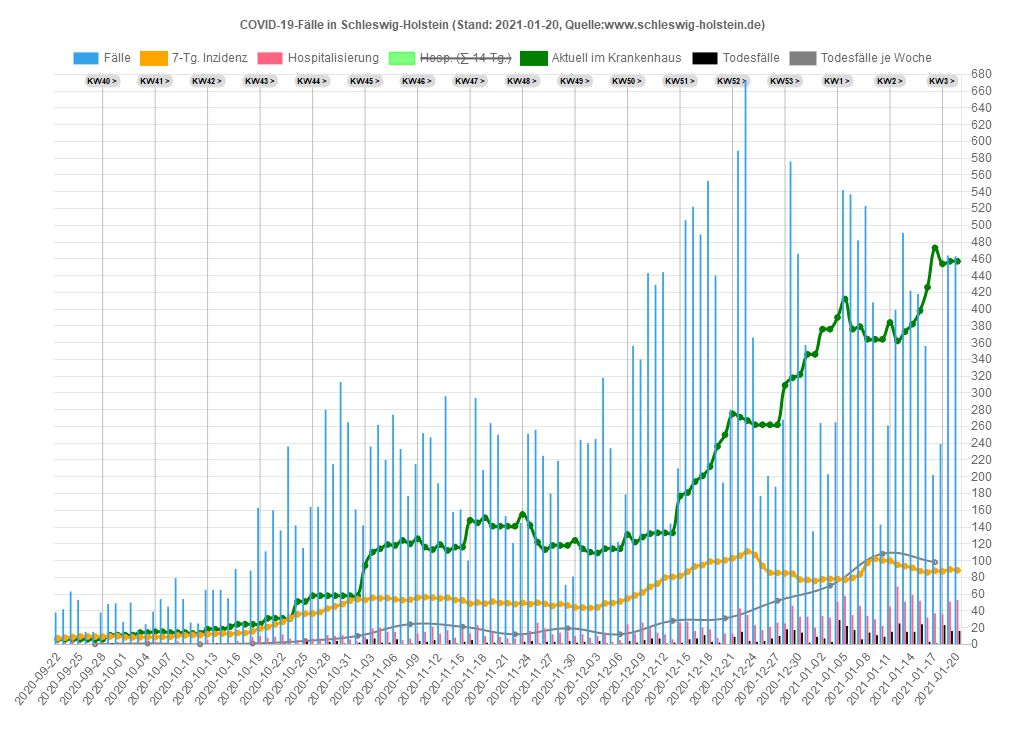
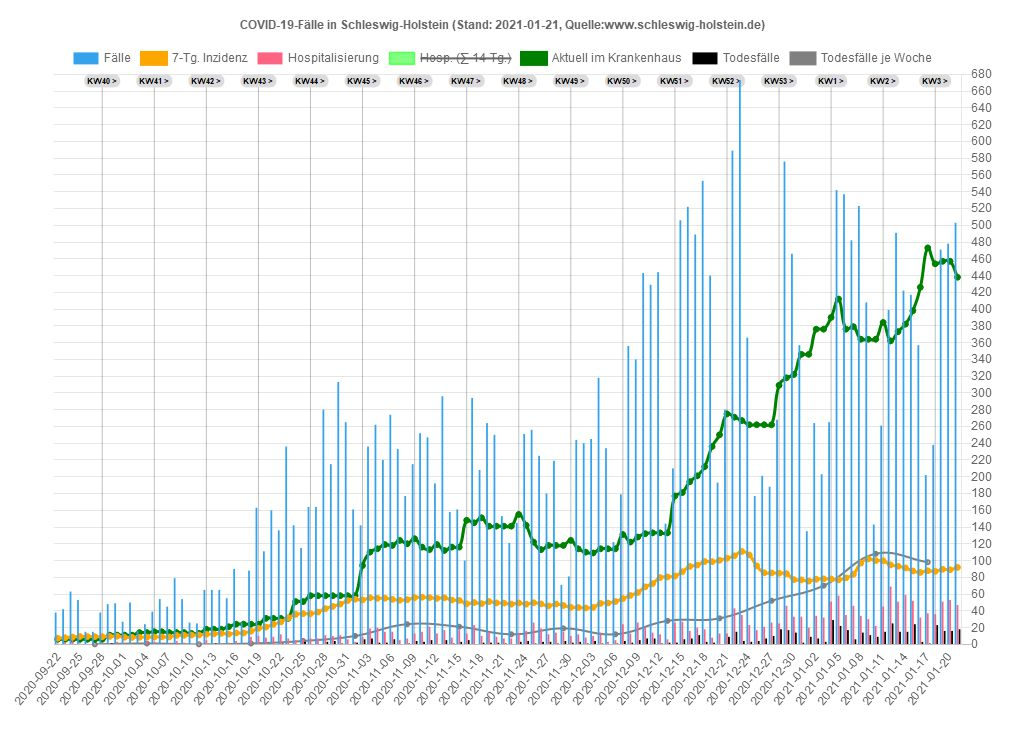
21.01.2021 21:33:56,05

Changed region(s): [[0.0625, 0.0931, 0.9375, 0.9622], [0.125, 0.0931, 0.1562, 0.1242]]

diff --git a/sh/Data_SH.js b/sh/Data_SH.js
@@ -1,20 +1,20 @@
 var chdata={
-labels: ["2020-09-22","2020-09-23","2020-09-24","2020-09-25","2020-09-26","2020-09-27","2020-09-28","2020-09-29","2020-09-30","2020-10-01","2020-10-02","2020-10-03","2020-10-04","2020-10-05","2020-10-06","2020-10-07","2020-10-08","2020-10-09","2020-10-10","2020-10-11","2020-10-12","2020-10-13","2020-10-14","2020-10-15","2020-10-16","2020-10-17","2020-10-18","2020-10-19","2020-10-20","2020-10-21","2020-10-22","2020-10-23","2020-10-24","2020-10-25","2020-10-26","2020-10-27","2020-10-28","2020-10-29","2020-10-30","2020-10-31","2020-11-01","2020-11-02","2020-11-03","2020-11-04","2020-11-05","2020-11-06","2020-11-07","2020-11-08","2020-11-09","2020-11-10","2020-11-11","2020-11-12","2020-11-13","2020-11-14","2020-11-15","2020-11-16","2020-11-17","2020-11-18","2020-11-19","2020-11-20","2020-11-21","2020-11-22","2020-11-23","2020-11-24","2020-11-25","2020-11-26","2020-11-27","2020-11-28","2020-11-29","2020-11-30","2020-12-01","2020-12-02","2020-12-03","2020-12-04","2020-12-05","2020-12-06","2020-12-07","2020-12-08","2020-12-09","2020-12-10","2020-12-11","2020-12-12","2020-12-13","2020-12-14","2020-12-15","2020-12-16","2020-12-17","2020-12-18","2020-12-19","2020-12-20","2020-12-21","2020-12-22","2020-12-23","2020-12-24","2020-12-25","2020-12-26","2020-12-27","2020-12-28","2020-12-29","2020-12-30","2020-12-31","2021-01-01","2021-01-02","2021-01-03","2021-01-04","2021-01-05","2021-01-06","2021-01-07","2021-01-08","2021-01-09","2021-01-10","2021-01-11","2021-01-12","2021-01-13","2021-01-14","2021-01-15","2021-01-16","2021-01-17","2021-01-18","2021-01-19","2021-01-20"],
+labels: ["2020-09-22","2020-09-23","2020-09-24","2020-09-25","2020-09-26","2020-09-27","2020-09-28","2020-09-29","2020-09-30","2020-10-01","2020-10-02","2020-10-03","2020-10-04","2020-10-05","2020-10-06","2020-10-07","2020-10-08","2020-10-09","2020-10-10","2020-10-11","2020-10-12","2020-10-13","2020-10-14","2020-10-15","2020-10-16","2020-10-17","2020-10-18","2020-10-19","2020-10-20","2020-10-21","2020-10-22","2020-10-23","2020-10-24","2020-10-25","2020-10-26","2020-10-27","2020-10-28","2020-10-29","2020-10-30","2020-10-31","2020-11-01","2020-11-02","2020-11-03","2020-11-04","2020-11-05","2020-11-06","2020-11-07","2020-11-08","2020-11-09","2020-11-10","2020-11-11","2020-11-12","2020-11-13","2020-11-14","2020-11-15","2020-11-16","2020-11-17","2020-11-18","2020-11-19","2020-11-20","2020-11-21","2020-11-22","2020-11-23","2020-11-24","2020-11-25","2020-11-26","2020-11-27","2020-11-28","2020-11-29","2020-11-30","2020-12-01","2020-12-02","2020-12-03","2020-12-04","2020-12-05","2020-12-06","2020-12-07","2020-12-08","2020-12-09","2020-12-10","2020-12-11","2020-12-12","2020-12-13","2020-12-14","2020-12-15","2020-12-16","2020-12-17","2020-12-18","2020-12-19","2020-12-20","2020-12-21","2020-12-22","2020-12-23","2020-12-24","2020-12-25","2020-12-26","2020-12-27","2020-12-28","2020-12-29","2020-12-30","2020-12-31","2021-01-01","2021-01-02","2021-01-03","2021-01-04","2021-01-05","2021-01-06","2021-01-07","2021-01-08","2021-01-09","2021-01-10","2021-01-11","2021-01-12","2021-01-13","2021-01-14","2021-01-15","2021-01-16","2021-01-17","2021-01-18","2021-01-19","2021-01-20","2021-01-21"],
 datasets: [
 {label: 'Fälle',
 type: 'bar',
 backgroundColor: window.chartColors.blue,
-data: [38,42,63,53,15,15,38,48,49,27,50,16,24,39,54,45,79,54,26,25,65,65,65,55,90,26,88,163,111,160,136,236,142,115,164,164,280,215,313,265,161,142,236,262,220,274,233,177,215,252,247,192,296,158,161,100,294,208,264,250,153,121,145,251,256,225,180,219,71,81,244,240,245,318,234,122,179,356,340,443,429,444,144,210,506,522,489,553,440,193,280,589,673,366,177,201,188,268,576,466,357,135,264,203,265,542,537,482,523,408,143,261,399,491,422,418,356,202,239,464,463]},
+data: [38,42,63,53,15,15,38,48,49,27,50,16,24,39,54,45,79,54,26,25,65,65,65,55,90,26,88,163,111,160,136,236,142,115,164,164,280,215,313,265,161,142,236,262,220,274,233,177,215,252,247,192,296,158,161,100,294,208,264,250,153,121,145,251,256,225,180,219,71,81,244,240,245,318,234,122,179,356,340,443,429,444,144,210,506,522,489,553,440,193,280,589,673,366,177,201,188,268,576,466,357,135,264,203,265,542,537,482,523,408,143,261,399,491,422,417,357,202,238,471,478,503]},
 {label: '7-Tg. Inzidenz',
 type: 'line',
 fill: false,
 pointBackgroundColor: 'orange',
 borderColor: 'orange',
-data: [7.2,7.9,8.7,9.4,9.3,9.2,9.1,9.4,9.7,8.4,8.3,8.4,8.7,8.7,8.9,8.8,10.6,10.7,11.1,11.1,12.0,12.4,13.1,12.2,13.5,13.5,15.6,19.0,20.6,23.9,26.7,31.7,35.7,36.6,36.6,38.5,42.6,45.3,48.0,52.2,53.8,53.0,55.5,54.9,55.1,53.7,52.6,53.2,55.7,56.2,55.7,54.8,55.5,52.9,52.4,48.4,49.9,48.5,51.0,49.4,49.2,47.9,49.4,47.9,49.6,48.2,45.8,48.1,46.4,44.2,43.9,43.4,44.1,48.8,49.3,51.1,54.5,58.3,61.8,68.6,72.4,79.7,80.4,81.5,86.6,92.9,94.5,98.8,98.6,100.3,102.7,105.6,110.8,106.6,93.6,85.4,85.2,84.8,84.3,77.2,76.9,75.5,77.6,78.1,78.0,76.9,79.3,83.6,97.0,101.9,99.9,99.7,94.8,93.2,91.2,87.5,85.8,87.8,87.0,89.3,88.3]},
+data: [7.2,7.9,8.7,9.4,9.3,9.2,9.1,9.4,9.7,8.4,8.3,8.4,8.7,8.7,8.9,8.8,10.6,10.7,11.1,11.1,12.0,12.4,13.1,12.2,13.5,13.5,15.6,19.0,20.6,23.9,26.7,31.7,35.7,36.6,36.6,38.5,42.6,45.3,48.0,52.2,53.8,53.0,55.5,54.9,55.1,53.7,52.6,53.2,55.7,56.2,55.7,54.8,55.5,52.9,52.4,48.4,49.9,48.5,51.0,49.4,49.2,47.9,49.4,47.9,49.6,48.2,45.8,48.1,46.4,44.2,43.9,43.4,44.1,48.8,49.3,51.1,54.5,58.3,61.8,68.6,72.4,79.7,80.4,81.5,86.6,92.9,94.5,98.8,98.6,100.3,102.7,105.6,110.8,106.6,93.6,85.4,85.2,84.8,84.3,77.2,76.9,75.5,77.6,78.1,78.0,76.9,79.3,83.6,97.0,101.9,99.9,99.7,94.8,93.2,91.2,87.5,85.8,87.8,87.0,89.5,89.0,91.8]},
 {label: 'Hospitalisierung',
 type: 'bar',
 backgroundColor: window.chartColors.red,
-data: [1,2,7,1,0,0,2,1,3,1,1,0,4,3,1,1,4,2,0,3,5,1,1,2,4,0,9,10,8,9,12,7,5,6,7,7,11,10,11,6,3,9,19,20,15,15,5,7,13,15,21,13,17,8,17,13,23,10,15,9,7,7,13,16,26,19,12,14,15,10,12,8,10,14,3,5,24,13,26,20,14,12,6,26,27,16,20,18,8,13,13,43,35,23,17,21,26,25,46,33,33,20,34,32,51,58,35,46,34,30,22,45,69,51,59,52,32,37,36,51,53]},
+data: [1,2,7,1,0,0,2,1,3,1,1,0,4,3,1,1,4,2,0,3,5,1,1,2,4,0,9,10,8,9,12,7,5,6,7,7,11,10,11,6,3,9,19,20,15,15,5,7,13,15,21,13,17,8,17,13,23,10,15,9,7,7,13,16,26,19,12,14,15,10,12,8,10,14,3,5,24,13,26,20,14,12,6,26,27,16,20,18,8,13,13,43,35,23,17,21,26,25,46,33,33,20,34,32,51,58,35,46,34,30,22,45,69,51,59,52,32,37,36,51,53,47]},
 {label: 'Hosp. (∑ 14-Tg.)',
 type: 'line',
 fill: false,
@@ -22,17 +22,17 @@ hidden: true,
 borderColor: 'rgba(0,255,0,0.5)',
 borderWidth: 1.5,
 pointRadius: 0,
-data: [12,12,20,22,22,22,22,23,23,21,22,21,24,26,26,25,22,23,23,26,29,29,27,28,31,31,36,43,50,58,66,71,76,79,81,87,97,105,112,118,112,111,122,133,136,144,144,145,151,159,169,172,178,180,194,198,202,192,192,186,188,188,188,189,194,200,195,201,199,196,185,183,178,183,179,177,188,185,185,186,188,186,177,193,208,216,226,230,235,243,232,262,271,274,277,286,306,305,324,341,354,356,382,401,439,454,454,477,494,503,499,519,542,560,586,618,616,621,606,599,617]},
+data: [12,12,20,22,22,22,22,23,23,21,22,21,24,26,26,25,22,23,23,26,29,29,27,28,31,31,36,43,50,58,66,71,76,79,81,87,97,105,112,118,112,111,122,133,136,144,144,145,151,159,169,172,178,180,194,198,202,192,192,186,188,188,188,189,194,200,195,201,199,196,185,183,178,183,179,177,188,185,185,186,188,186,177,193,208,216,226,230,235,243,232,262,271,274,277,286,306,305,324,341,354,356,382,401,439,454,454,477,494,503,499,519,542,560,586,618,616,621,606,599,617,618]},
 {label: 'Aktuell im Krankenhaus',
 type: 'line',
 fill: false,
 pointBackgroundColor: 'green',
 borderColor: 'green',
-data: [6,6,6,6,6,6,6,11,11,11,11,14,14,15,15,14,14,14,13,13,18,18,18,21,24,24,24,24,31,31,31,31,51,51,58,58,58,58,58,58,58,94,110,114,119,118,124,120,126,116,113,119,112,116,116,148,145,151,141,141,141,141,155,142,122,113,118,118,118,124,114,110,109,114,114,114,131,122,128,132,133,133,133,177,181,194,201,212,236,250,275,271,267,262,262,262,262,309,318,322,346,346,376,376,390,412,376,379,364,364,364,384,362,373,382,398,426,473,454,457,457]},
+data: [6,6,6,6,6,6,6,11,11,11,11,14,14,15,15,14,14,14,13,13,18,18,18,21,24,24,24,24,31,31,31,31,51,51,58,58,58,58,58,58,58,94,110,114,119,118,124,120,126,116,113,119,112,116,116,148,145,151,141,141,141,141,155,142,122,113,118,118,118,124,114,110,109,114,114,114,131,122,128,132,133,133,133,177,181,194,201,212,236,250,275,271,267,262,262,262,262,309,318,322,346,346,376,376,390,412,376,379,364,364,364,384,362,373,382,398,426,473,454,457,457,438]},
 {label: 'Todesfälle',
 type: 'bar',
 backgroundColor: 'black',
-data: [0,0,0,0,0,0,0,1,0,0,0,0,0,0,0,0,0,0,0,0,0,1,0,0,0,0,0,0,0,0,1,0,0,3,0,0,3,4,1,0,2,6,7,2,2,6,0,1,4,3,5,0,5,1,3,5,0,2,2,2,1,0,3,4,1,3,3,1,4,2,3,1,4,1,0,1,4,2,5,7,7,1,2,2,6,7,11,3,2,0,9,15,4,3,4,7,10,18,17,14,2,9,7,3,29,22,17,6,14,11,9,15,25,15,15,24,3,1,23,16,16]},
+data: [0,0,0,0,0,0,0,1,0,0,0,0,0,0,0,0,0,0,0,0,0,1,0,0,0,0,0,0,0,0,1,0,0,3,0,0,3,4,1,0,2,6,7,2,2,6,0,1,4,3,5,0,5,1,3,5,0,2,2,2,1,0,3,4,1,3,3,1,4,2,3,1,4,1,0,1,4,2,5,7,7,1,2,2,6,7,11,3,2,0,9,15,4,3,4,7,10,18,17,14,2,9,7,3,29,22,17,6,14,11,9,15,25,15,15,24,3,1,23,16,16,18]},
 {label: 'Todesfälle je Woche',
 type: 'line',
 fill: false,
@@ -41,6 +41,6 @@ borderColor: 'rgba(128,128,128,1)',
 borderWidth: 2,
 pointRadius: 2,
 yAxisID: 'first-y-axis',
-data: [,,,,,0,,,,,,,1,,,,,,,0,,,,,,,1,,,,,,,4,,,,,,,10,,,,,,,24,,,,,,,21,,,,,,,12,,,,,,,19,,,,,,,12,,,,,,,28,,,,,,,31,,,,,,,52,,,,,,,70,,,,,,,108,,,,,,,98,,,]},
+data: [,,,,,0,,,,,,,1,,,,,,,0,,,,,,,1,,,,,,,4,,,,,,,10,,,,,,,24,,,,,,,21,,,,,,,12,,,,,,,19,,,,,,,12,,,,,,,28,,,,,,,31,,,,,,,52,,,,,,,70,,,,,,,108,,,,,,,98,,,,]},
 ]};
 

diff --git a/sh/Kreis_PI.js b/sh/Kreis_PI.js
@@ -1,23 +1,23 @@
 var chdata={
-labels: ["2020-09-22","2020-09-23","2020-09-24","2020-09-25","2020-09-26","2020-09-27","2020-09-28","2020-09-29","2020-09-30","2020-10-01","2020-10-02","2020-10-03","2020-10-04","2020-10-05","2020-10-06","2020-10-07","2020-10-08","2020-10-09","2020-10-10","2020-10-11","2020-10-12","2020-10-13","2020-10-14","2020-10-15","2020-10-16","2020-10-17","2020-10-18","2020-10-19","2020-10-20","2020-10-21","2020-10-22","2020-10-23","2020-10-24","2020-10-25","2020-10-26","2020-10-27","2020-10-28","2020-10-29","2020-10-30","2020-10-31","2020-11-01","2020-11-02","2020-11-03","2020-11-04","2020-11-05","2020-11-06","2020-11-07","2020-11-08","2020-11-09","2020-11-10","2020-11-11","2020-11-12","2020-11-13","2020-11-14","2020-11-15","2020-11-16","2020-11-17","2020-11-18","2020-11-19","2020-11-20","2020-11-21","2020-11-22","2020-11-23","2020-11-24","2020-11-25","2020-11-26","2020-11-27","2020-11-28","2020-11-29","2020-11-30","2020-12-01","2020-12-02","2020-12-03","2020-12-04","2020-12-05","2020-12-06","2020-12-07","2020-12-08","2020-12-09","2020-12-10","2020-12-11","2020-12-12","2020-12-13","2020-12-14","2020-12-15","2020-12-16","2020-12-17","2020-12-18","2020-12-19","2020-12-20","2020-12-21","2020-12-22","2020-12-23","2020-12-24","2020-12-25","2020-12-26","2020-12-27","2020-12-28","2020-12-29","2020-12-30","2020-12-31","2021-01-01","2021-01-02","2021-01-03","2021-01-04","2021-01-05","2021-01-06","2021-01-07","2021-01-08","2021-01-09","2021-01-10","2021-01-11","2021-01-12","2021-01-13","2021-01-14","2021-01-15","2021-01-16","2021-01-17","2021-01-18","2021-01-19","2021-01-20"],
+labels: ["2020-09-22","2020-09-23","2020-09-24","2020-09-25","2020-09-26","2020-09-27","2020-09-28","2020-09-29","2020-09-30","2020-10-01","2020-10-02","2020-10-03","2020-10-04","2020-10-05","2020-10-06","2020-10-07","2020-10-08","2020-10-09","2020-10-10","2020-10-11","2020-10-12","2020-10-13","2020-10-14","2020-10-15","2020-10-16","2020-10-17","2020-10-18","2020-10-19","2020-10-20","2020-10-21","2020-10-22","2020-10-23","2020-10-24","2020-10-25","2020-10-26","2020-10-27","2020-10-28","2020-10-29","2020-10-30","2020-10-31","2020-11-01","2020-11-02","2020-11-03","2020-11-04","2020-11-05","2020-11-06","2020-11-07","2020-11-08","2020-11-09","2020-11-10","2020-11-11","2020-11-12","2020-11-13","2020-11-14","2020-11-15","2020-11-16","2020-11-17","2020-11-18","2020-11-19","2020-11-20","2020-11-21","2020-11-22","2020-11-23","2020-11-24","2020-11-25","2020-11-26","2020-11-27","2020-11-28","2020-11-29","2020-11-30","2020-12-01","2020-12-02","2020-12-03","2020-12-04","2020-12-05","2020-12-06","2020-12-07","2020-12-08","2020-12-09","2020-12-10","2020-12-11","2020-12-12","2020-12-13","2020-12-14","2020-12-15","2020-12-16","2020-12-17","2020-12-18","2020-12-19","2020-12-20","2020-12-21","2020-12-22","2020-12-23","2020-12-24","2020-12-25","2020-12-26","2020-12-27","2020-12-28","2020-12-29","2020-12-30","2020-12-31","2021-01-01","2021-01-02","2021-01-03","2021-01-04","2021-01-05","2021-01-06","2021-01-07","2021-01-08","2021-01-09","2021-01-10","2021-01-11","2021-01-12","2021-01-13","2021-01-14","2021-01-15","2021-01-16","2021-01-17","2021-01-18","2021-01-19","2021-01-20","2021-01-21"],
 datasets: [
 {label: 'Fälle',
 type: 'bar',
 backgroundColor: window.chartColors.blue,
 yAxisID: 'first-y-axis',
-data: [7,7,2,17,0,9,3,8,10,6,6,7,4,2,7,6,7,4,8,3,11,12,17,9,3,0,36,10,12,34,0,73,34,8,10,0,27,36,60,67,0,32,26,49,42,43,45,24,7,36,47,34,28,43,18,0,51,51,49,47,42,31,55,50,68,43,0,73,18,32,47,59,40,42,0,12,34,75,37,98,53,92,19,17,79,62,92,53,113,32,41,100,121,58,56,49,20,47,118,116,82,15,36,25,28,104,77,62,132,69,38,32,93,133,71,71,70,38,50,98,87]},
+data: [7,7,2,17,0,9,3,8,10,6,6,7,4,2,7,6,7,4,8,3,11,12,17,9,3,0,36,10,12,34,0,73,34,8,10,0,27,36,60,67,0,32,26,49,42,43,45,24,7,36,47,34,28,43,18,0,51,51,49,47,42,31,55,50,68,43,0,73,18,32,47,59,40,42,0,12,34,75,37,98,53,92,19,17,79,62,92,53,113,32,41,100,121,58,56,49,20,47,118,116,82,15,36,25,28,104,77,62,132,69,38,32,93,133,71,71,70,38,50,102,90,144]},
 {label: '7-Tg. Inzidenz',
 type: 'line',
 fill: false,
 pointBackgroundColor: 'orange',
 borderColor: 'orange',
 yAxisID: 'first-y-axis',
-data: [10.4,12.0,11.4,14.5,12.0104175,14.2,14.2,14.5,15.5,16.8,13.3,15.5,13.9,13.6,13.3,12.0,12.3,11.7,12.0,11.7,14.5,16.1,19.6,20.2,19.9,17.383499,27.8,27.5,27.5,32.9,30.0260436,52.2,62.9,54.0,54.0,50.2541151,48.0,59.4,55.3,65.7,63.2127235,70.2,78.4,85.3,87.2,81.9,74.9,82.5,74.6,77.8,77.1,74.6,69.9,69.2,67.3,65.1091052,69.9,71.1,75.9,81.9,81.5,85.7,103.0,102.7,108.1,106.2,91.3423854,101.1,97.0,89.8,88.8,86.0,85.0,98.3,75.2231409,73.3,74.0,82.8,75.9,94.2,97.7,126.7,129.0,123.6,124.8,132.7,130.9,130.9,137.5,141.6,149.2,155.8,174.5,163.7,164.7,144.4,140.6,142.5,148.2,146.7,154.2,141.3,137.2,138.8,132.7,128.3,116.0,109.7,146.7,157.1,161.2,162.5,159.0,176.7,179.5,160.2,160.6,160.6,166.2,167.8,153.4]},
+data: [10.4,12.0,11.4,14.5,12.0104175,14.2,14.2,14.5,15.5,16.8,13.3,15.5,13.9,13.6,13.3,12.0,12.3,11.7,12.0,11.7,14.5,16.1,19.6,20.2,19.9,17.383499,27.8,27.5,27.5,32.9,30.0260436,52.2,62.9,54.0,54.0,50.2541151,48.0,59.4,55.3,65.7,63.2127235,70.2,78.4,85.3,87.2,81.9,74.9,82.5,74.6,77.8,77.1,74.6,69.9,69.2,67.3,65.1091052,69.9,71.1,75.9,81.9,81.5,85.7,103.0,102.7,108.1,106.2,91.3423854,101.1,97.0,89.8,88.8,86.0,85.0,98.3,75.2231409,73.3,74.0,82.8,75.9,94.2,97.7,126.7,129.0,123.6,124.8,132.7,130.9,130.9,137.5,141.6,149.2,155.8,174.5,163.7,164.7,144.4,140.6,142.5,148.2,146.7,154.2,141.3,137.2,138.8,132.7,128.3,116.0,109.7,146.7,157.1,161.2,162.5,159.0,176.7,179.5,160.2,160.6,160.6,166.2,169.1,155.5,178.7]},
 {label: 'Hospitalisierung',
 type: 'bar',
 backgroundColor: window.chartColors.red,
 yAxisID: 'first-y-axis',
-data: [0,0,0,0,0,0,1,1,0,0,0,0,1,1,1,-1,2,0,0,0,0,0,0,0,0,0,3,2,0,1,0,5,0,1,1,0,1,2,5,2,0,2,1,2,5,3,0,0,3,4,2,3,3,1,1,0,6,1,2,2,2,0,1,2,6,4,0,6,4,4,3,3,2,5,0,2,4,1,6,7,4,1,0,9,5,0,7,0,0,0,0,25,8,6,2,3,3,5,15,9,4,6,10,3,4,8,13,13,6,3,4,0,26,12,8,7,6,2,2,13,7]},
+data: [0,0,0,0,0,0,1,1,0,0,0,0,1,1,1,-1,2,0,0,0,0,0,0,0,0,0,3,2,0,1,0,5,0,1,1,0,1,2,5,2,0,2,1,2,5,3,0,0,3,4,2,3,3,1,1,0,6,1,2,2,2,0,1,2,6,4,0,6,4,4,3,3,2,5,0,2,4,1,6,7,4,1,0,9,5,0,7,0,0,0,0,25,8,6,2,3,3,5,15,9,4,6,10,3,4,8,13,13,6,3,4,0,26,12,8,7,6,2,2,13,7,11]},
 {label: 'Hospitalisierung (∑ 14-Tg.)',
 type: 'line',
 pointRadius: 0,
@@ -25,12 +25,12 @@ fill: false,
 borderColor: 'rgba(0,128,0,0.5)',
 borderWidth: 2,
 yAxisID: 'first-y-axis',
-data: [2,2,2,2,2,2,3,4,3,2,2,2,3,4,5,4,6,6,6,6,5,4,4,4,4,4,6,7,6,8,6,11,11,12,13,13,14,16,21,23,20,20,21,22,27,25,25,24,26,30,31,32,30,29,30,28,33,32,29,28,30,30,28,26,30,31,28,33,36,40,37,39,39,42,40,42,45,44,44,47,51,46,42,47,49,46,51,46,46,44,40,64,66,65,63,65,68,64,74,83,80,86,96,99,103,86,91,98,102,102,103,98,109,112,116,117,113,112,110,115,109]},
+data: [2,2,2,2,2,2,3,4,3,2,2,2,3,4,5,4,6,6,6,6,5,4,4,4,4,4,6,7,6,8,6,11,11,12,13,13,14,16,21,23,20,20,21,22,27,25,25,24,26,30,31,32,30,29,30,28,33,32,29,28,30,30,28,26,30,31,28,33,36,40,37,39,39,42,40,42,45,44,44,47,51,46,42,47,49,46,51,46,46,44,40,64,66,65,63,65,68,64,74,83,80,86,96,99,103,86,91,98,102,102,103,98,109,112,116,117,113,112,110,115,109,107]},
 {label: 'Todesfälle',
 type: 'bar',
 backgroundColor: 'black',
 yAxisID: 'first-y-axis',
-data: [0,0,0,0,0,0,0,0,0,0,0,0,0,0,0,0,0,0,0,0,0,0,0,0,0,0,0,0,0,0,0,0,0,0,0,0,1,0,0,0,0,0,0,0,0,0,0,0,0,1,0,0,0,0,0,0,0,0,0,0,0,0,0,0,0,1,0,1,0,2,0,0,2,1,0,0,0,1,0,2,1,0,0,0,1,0,7,0,0,0,0,4,0,0,2,0,2,3,4,3,0,6,0,2,10,4,5,1,2,5,1,0,7,2,5,6,1,0,5,2,1]},
+data: [0,0,0,0,0,0,0,0,0,0,0,0,0,0,0,0,0,0,0,0,0,0,0,0,0,0,0,0,0,0,0,0,0,0,0,0,1,0,0,0,0,0,0,0,0,0,0,0,0,1,0,0,0,0,0,0,0,0,0,0,0,0,0,0,0,1,0,1,0,2,0,0,2,1,0,0,0,1,0,2,1,0,0,0,1,0,7,0,0,0,0,4,0,0,2,0,2,3,4,3,0,6,0,2,10,4,5,1,2,5,1,0,7,2,5,6,1,0,5,2,1,5]},
 {label: 'Todesfälle je Woche',
 type: 'line',
 fill: false,
@@ -39,6 +39,6 @@ borderColor: 'rgba(128,128,128,1)',
 borderWidth: 2,
 pointRadius: 2,
 yAxisID: 'first-y-axis',
-data: [,,,,,0,,,,,,,0,,,,,,,0,,,,,,,0,,,,,,,0,,,,,,,1,,,,,,,0,,,,,,,1,,,,,,,0,,,,,,,2,,,,,,,5,,,,,,,4,,,,,,,8,,,,,,,8,,,,,,,18,,,,,,,28,,,,,,,21,,,]},
+data: [,,,,,0,,,,,,,0,,,,,,,0,,,,,,,0,,,,,,,0,,,,,,,1,,,,,,,0,,,,,,,1,,,,,,,0,,,,,,,2,,,,,,,5,,,,,,,4,,,,,,,8,,,,,,,8,,,,,,,18,,,,,,,28,,,,,,,21,,,,]},
 ]};
 

diff --git a/sh/Data_SH_Alter.js b/sh/Data_SH_Alter.js
@@ -131,7 +131,8 @@ var chdata={
 				{x: '2021-01-17', y: 'Alle', v: 87.0591468, casesum: 2528},{x: '2021-01-17', y: '00-09', v: 36.2259565, casesum: 93},{x: '2021-01-17', y: '10-19', v: 74.6357882, casesum: 206},{x: '2021-01-17', y: '20-29', v: 124.389771, casesum: 398},{x: '2021-01-17', y: '30-39', v: 104.734163, casesum: 352},{x: '2021-01-17', y: '40-49', v: 83.1269345, casesum: 293},{x: '2021-01-17', y: '50-59', v: 73.879544, casesum: 366},{x: '2021-01-17', y: '60-69', v: 58.5921382, casesum: 213},{x: '2021-01-17', y: '70-79', v: 70.2866547, casesum: 208},{x: '2021-01-17', y: '80-89', v: 161.035998, casesum: 288},{x: '2021-01-17', y: '90+', v: 385.202665, casesum: 111},
 				{x: '2021-01-18', y: 'Alle', v: 87.1624607, casesum: 2531},{x: '2021-01-18', y: '00-09', v: 37.3945357, casesum: 96},{x: '2021-01-18', y: '10-19', v: 76.8096461, casesum: 212},{x: '2021-01-18', y: '20-29', v: 127.515142, casesum: 408},{x: '2021-01-18', y: '30-39', v: 108.602186, casesum: 365},{x: '2021-01-18', y: '40-49', v: 87.6662893, casesum: 309},{x: '2021-01-18', y: '50-59', v: 74.0814007, casesum: 367},{x: '2021-01-18', y: '60-69', v: 56.9416554, casesum: 207},{x: '2021-01-18', y: '70-79', v: 65.2179055, casesum: 193},{x: '2021-01-18', y: '80-89', v: 151.530401, casesum: 271},{x: '2021-01-18', y: '90+', v: 357.440311, casesum: 103},
 				{x: '2021-01-19', y: 'Alle', v: 88.5399788, casesum: 2571},{x: '2021-01-19', y: '00-09', v: 35.8364301, casesum: 92},{x: '2021-01-19', y: '10-19', v: 76.0850268, casesum: 210},{x: '2021-01-19', y: '20-29', v: 125.014846, casesum: 400},{x: '2021-01-19', y: '30-39', v: 108.602186, casesum: 365},{x: '2021-01-19', y: '40-49', v: 92.4893538, casesum: 326},{x: '2021-01-19', y: '50-59', v: 72.4665473, casesum: 359},{x: '2021-01-19', y: '60-69', v: 58.8672187, casesum: 214},{x: '2021-01-19', y: '70-79', v: 66.9074886, casesum: 198},{x: '2021-01-19', y: '80-89', v: 155.444471, casesum: 278},{x: '2021-01-19', y: '90+', v: 447.667962, casesum: 129},
-				{x: '2021-01-20', y: 'Alle', v: 88.0578475, casesum: 2557},{x: '2021-01-20', y: '00-09', v: 35.8364301, casesum: 92},{x: '2021-01-20', y: '10-19', v: 71.0126917, casesum: 196},{x: '2021-01-20', y: '20-29', v: 127.82768, casesum: 409},{x: '2021-01-20', y: '30-39', v: 107.114485, casesum: 360},{x: '2021-01-20', y: '40-49', v: 94.4753215, casesum: 333},{x: '2021-01-20', y: '50-59', v: 72.2646906, casesum: 358},{x: '2021-01-20', y: '60-69', v: 58.3170577, casesum: 212},{x: '2021-01-20', y: '70-79', v: 63.1904059, casesum: 187},{x: '2021-01-20', y: '80-89', v: 152.648707, casesum: 273},{x: '2021-01-20', y: '90+', v: 475.430316, casesum: 137}
+				{x: '2021-01-20', y: 'Alle', v: 88.0578475, casesum: 2557},{x: '2021-01-20', y: '00-09', v: 35.8364301, casesum: 92},{x: '2021-01-20', y: '10-19', v: 71.0126917, casesum: 196},{x: '2021-01-20', y: '20-29', v: 127.82768, casesum: 409},{x: '2021-01-20', y: '30-39', v: 107.114485, casesum: 360},{x: '2021-01-20', y: '40-49', v: 94.4753215, casesum: 333},{x: '2021-01-20', y: '50-59', v: 72.2646906, casesum: 358},{x: '2021-01-20', y: '60-69', v: 58.3170577, casesum: 212},{x: '2021-01-20', y: '70-79', v: 63.1904059, casesum: 187},{x: '2021-01-20', y: '80-89', v: 152.648707, casesum: 273},{x: '2021-01-20', y: '90+', v: 475.430316, casesum: 137},
+				{x: '2021-01-21', y: 'Alle', v: 91.9148983, casesum: 2669},{x: '2021-01-21', y: '00-09', v: 35.8364301, casesum: 92},{x: '2021-01-21', y: '10-19', v: 69.2011434, casesum: 191},{x: '2021-01-21', y: '20-29', v: 124.389771, casesum: 398},{x: '2021-01-21', y: '30-39', v: 115.743151, casesum: 389},{x: '2021-01-21', y: '40-49', v: 99.0146763, casesum: 349},{x: '2021-01-21', y: '50-59', v: 76.5036809, casesum: 379},{x: '2021-01-21', y: '60-69', v: 62.9934256, casesum: 229},{x: '2021-01-21', y: '70-79', v: 68.259155, casesum: 202},{x: '2021-01-21', y: '80-89', v: 170.541595, casesum: 305},{x: '2021-01-21', y: '90+', v: 468.489728, casesum: 135}
 			],
 			backgroundColor: function(context) {
 				return inzColor(context.dataset.data[context.dataIndex].v)
@@ -139,7 +140,7 @@ var chdata={
 			width: function(context) {
 				const a = context.chart.chartArea
 				if (!a) return 0
-				return (a.right - a.left) / 128.5
+				return (a.right - a.left) / 129.5
 			},
 			height: function(context) {
 				const a = context.chart.chartArea
@@ -151,7 +152,7 @@ var chdata={
 	options: {
 		legend: { display: false },
 		scales: {
-			xAxes: [{type: 'category', labels: ["2020-09-15","2020-09-16","2020-09-17","2020-09-18","2020-09-19","2020-09-20","2020-09-21","2020-09-22","2020-09-23","2020-09-24","2020-09-25","2020-09-26","2020-09-27","2020-09-28","2020-09-29","2020-09-30","2020-10-01","2020-10-02","2020-10-03","2020-10-04","2020-10-05","2020-10-06","2020-10-07","2020-10-08","2020-10-09","2020-10-10","2020-10-11","2020-10-12","2020-10-13","2020-10-14","2020-10-15","2020-10-16","2020-10-17","2020-10-18","2020-10-19","2020-10-20","2020-10-21","2020-10-22","2020-10-23","2020-10-24","2020-10-25","2020-10-26","2020-10-27","2020-10-28","2020-10-29","2020-10-30","2020-10-31","2020-11-01","2020-11-02","2020-11-03","2020-11-04","2020-11-05","2020-11-06","2020-11-07","2020-11-08","2020-11-09","2020-11-10","2020-11-11","2020-11-12","2020-11-13","2020-11-14","2020-11-15","2020-11-16","2020-11-17","2020-11-18","2020-11-19","2020-11-20","2020-11-21","2020-11-22","2020-11-23","2020-11-24","2020-11-25","2020-11-26","2020-11-27","2020-11-28","2020-11-29","2020-11-30","2020-12-01","2020-12-02","2020-12-03","2020-12-04","2020-12-05","2020-12-06","2020-12-07","2020-12-08","2020-12-09","2020-12-10","2020-12-11","2020-12-12","2020-12-13","2020-12-14","2020-12-15","2020-12-16","2020-12-17","2020-12-18","2020-12-19","2020-12-20","2020-12-21","2020-12-22","2020-12-23","2020-12-24","2020-12-25","2020-12-26","2020-12-27","2020-12-28","2020-12-29","2020-12-30","2020-12-31","2021-01-01","2021-01-02","2021-01-03","2021-01-04","2021-01-05","2021-01-06","2021-01-07","2021-01-08","2021-01-09","2021-01-10","2021-01-11","2021-01-12","2021-01-13","2021-01-14","2021-01-15","2021-01-16","2021-01-17","2021-01-18","2021-01-19","2021-01-20",], ticks: {display: true},gridlines:{display:false}}],
+			xAxes: [{type: 'category', labels: ["2020-09-15","2020-09-16","2020-09-17","2020-09-18","2020-09-19","2020-09-20","2020-09-21","2020-09-22","2020-09-23","2020-09-24","2020-09-25","2020-09-26","2020-09-27","2020-09-28","2020-09-29","2020-09-30","2020-10-01","2020-10-02","2020-10-03","2020-10-04","2020-10-05","2020-10-06","2020-10-07","2020-10-08","2020-10-09","2020-10-10","2020-10-11","2020-10-12","2020-10-13","2020-10-14","2020-10-15","2020-10-16","2020-10-17","2020-10-18","2020-10-19","2020-10-20","2020-10-21","2020-10-22","2020-10-23","2020-10-24","2020-10-25","2020-10-26","2020-10-27","2020-10-28","2020-10-29","2020-10-30","2020-10-31","2020-11-01","2020-11-02","2020-11-03","2020-11-04","2020-11-05","2020-11-06","2020-11-07","2020-11-08","2020-11-09","2020-11-10","2020-11-11","2020-11-12","2020-11-13","2020-11-14","2020-11-15","2020-11-16","2020-11-17","2020-11-18","2020-11-19","2020-11-20","2020-11-21","2020-11-22","2020-11-23","2020-11-24","2020-11-25","2020-11-26","2020-11-27","2020-11-28","2020-11-29","2020-11-30","2020-12-01","2020-12-02","2020-12-03","2020-12-04","2020-12-05","2020-12-06","2020-12-07","2020-12-08","2020-12-09","2020-12-10","2020-12-11","2020-12-12","2020-12-13","2020-12-14","2020-12-15","2020-12-16","2020-12-17","2020-12-18","2020-12-19","2020-12-20","2020-12-21","2020-12-22","2020-12-23","2020-12-24","2020-12-25","2020-12-26","2020-12-27","2020-12-28","2020-12-29","2020-12-30","2020-12-31","2021-01-01","2021-01-02","2021-01-03","2021-01-04","2021-01-05","2021-01-06","2021-01-07","2021-01-08","2021-01-09","2021-01-10","2021-01-11","2021-01-12","2021-01-13","2021-01-14","2021-01-15","2021-01-16","2021-01-17","2021-01-18","2021-01-19","2021-01-20","2021-01-21",], ticks: {display: true},gridlines:{display:false}}],
 			yAxes: [{type: 'category', labels: ["Alle","00-09","10-19","20-29","30-39","40-49","50-59","60-69","70-79","80-89","90+"], offset:true, ticks: {display: true},gridlines:{display:false}}],
 		},
 	}

diff --git a/sh/index_sh_alter.html b/sh/index_sh_alter.html
@@ -5,7 +5,7 @@
 <meta property="og:image" content="index_sh_alter.jpg" />
 <meta property="og:type" content="website" />
 <meta property="og:locale" content="de_DE" />
-<meta property="og:updated_time" content="2021-01-21T20:51:56+01:00" />
+<meta property="og:updated_time" content="2021-01-21T21:33:55+01:00" />
 <title>Altersverteilung der COVID-19-Fälle in Schleswig-Holstein</title>
 <link rel="stylesheet" href="../css/style.css" media="screen" type="text/css">
 <link rel="stylesheet" media="screen" href="Chart.min.css"> 

diff --git a/sh/index_pi_alter.html b/sh/index_pi_alter.html
@@ -5,7 +5,7 @@
 <meta property="og:image" content="index_pi_alter.jpg" />
 <meta property="og:type" content="website" />
 <meta property="og:locale" content="de_DE" />
-<meta property="og:updated_time" content="2021-01-21T20:51:56+01:00" />
+<meta property="og:updated_time" content="2021-01-21T21:33:55+01:00" />
 <title>Altersverteilung der COVID-19-Fälle im Kreis Pinneberg</title>
 <link rel="stylesheet" href="../css/style.css" media="screen" type="text/css">
 <link rel="stylesheet" media="screen" href="Chart.min.css"> 

diff --git a/sh/index.html b/sh/index.html
@@ -5,7 +5,7 @@
 <meta property="og:image" content="index.jpg" />
 <meta property="og:type" content="website" />
 <meta property="og:locale" content="de_DE" />
-<meta property="og:updated_time" content="2021-01-21T20:51:56+01:00" />
+<meta property="og:updated_time" content="2021-01-21T21:33:55+01:00" />
 <title>COVID-19-Fälle im Kreis Pinneberg</title>
 <link rel="stylesheet" href="../css/style.css" media="screen" type="text/css">
 <link rel="stylesheet" media="screen" href="Chart.min.css"> 
